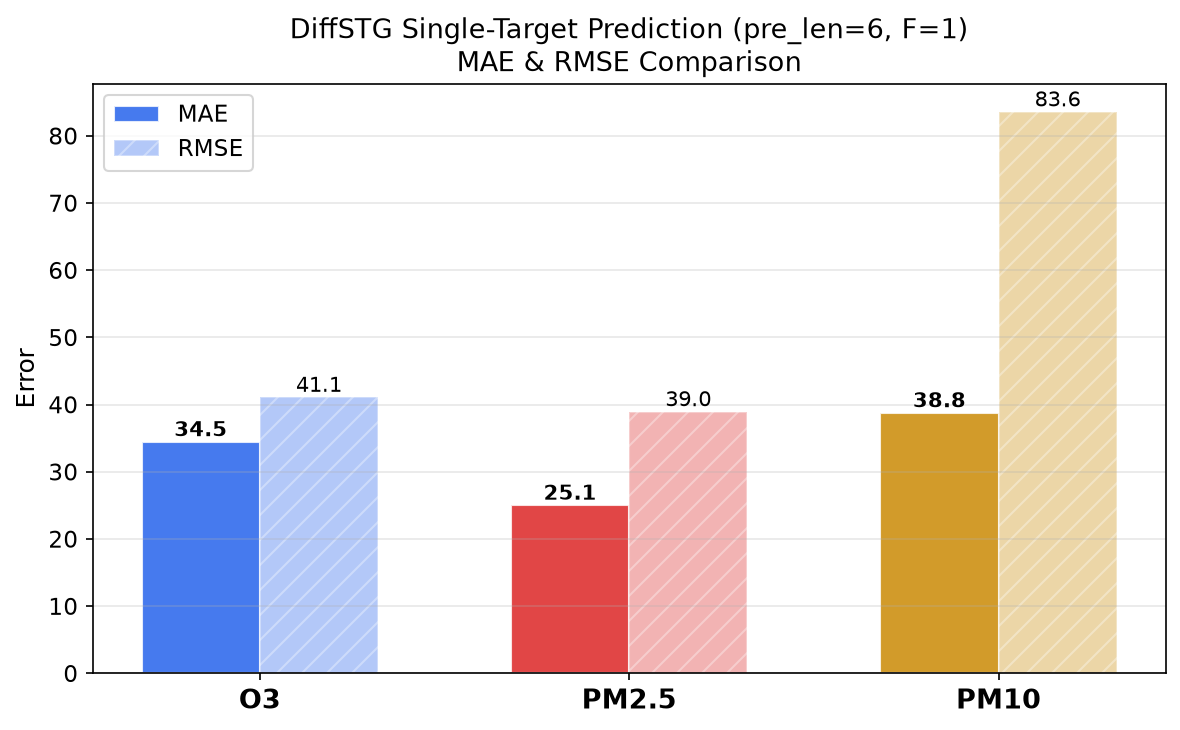
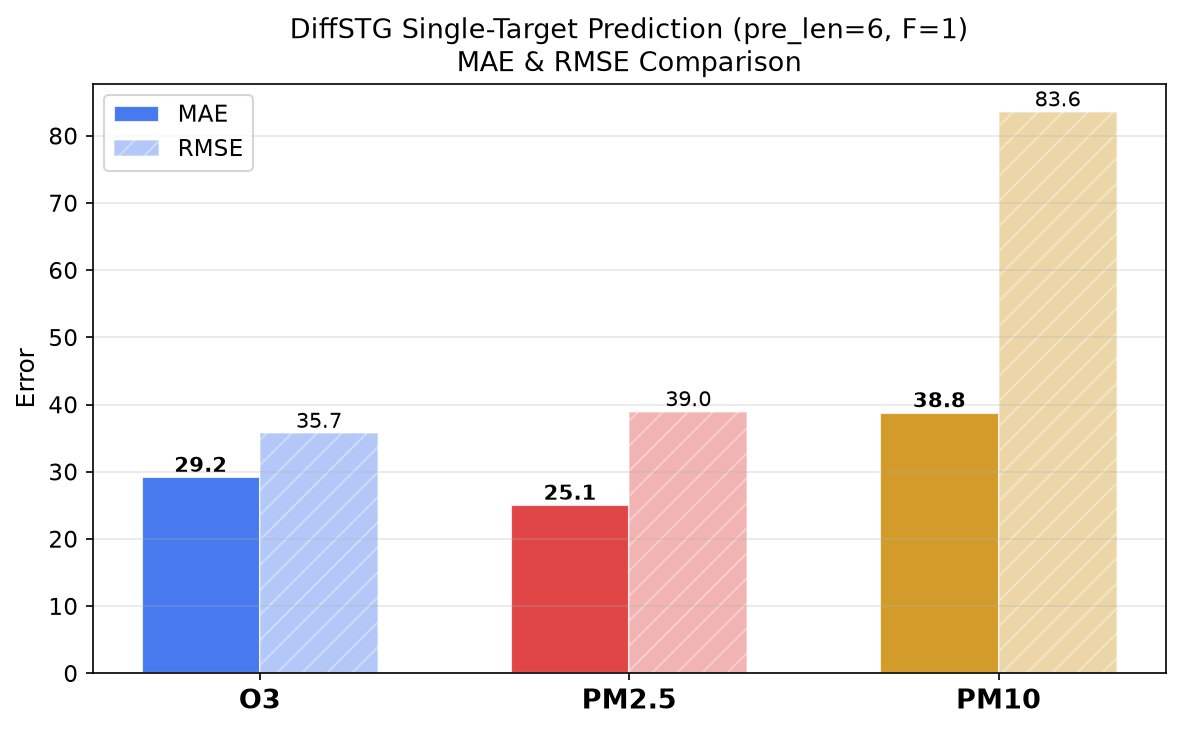
DiffSTG baseline: 统一汇总结果

Changed region(s): [[0.122, 0.5123, 0.3356, 0.663]]

diff --git a/external_baselines_F1/plot_scripts/plot_pollutant_comparison.py b/external_baselines_F1/plot_scripts/plot_pollutant_comparison.py
@@ -11,14 +11,15 @@ import matplotlib.pyplot as plt
 import numpy as np
 from pathlib import Path
 
-FIG_DIR = Path(__file__).resolve().parent / 'figures'
+ROOT = Path(__file__).resolve().parent.parent
+FIG_DIR = ROOT / 'figures'
 FIG_DIR.mkdir(parents=True, exist_ok=True)
 
 # ---- 数据 ----
 pollutants = ['O3', 'PM2.5', 'PM10']
-mae  = [34.50, 25.05, 38.81]
-rmse = [41.10, 38.96, 83.59]
-mape = [557.66, 124.28, 83.89]
+mae  = [29.20, 25.05, 38.81]
+rmse = [35.74, 38.96, 83.59]
+mape = [469.99, 124.28, 83.89]
 data_range = [410, 543, 2759]
 
 colors = ['#2563EB', '#DC2626', '#CA8A04']  # blue, red, gold
@@ -104,7 +105,7 @@ print('[OK] pollutant_rmse_normalized.png')
 fig, ax = plt.subplots(figsize=(9, 4))
 ax.axis('off')
 table_data = [
-    ['O3',   '34.50',  '41.10',  '557.66%', '[1, 410]',  '17'],
+    ['O3',   '29.20',  '35.74',  '469.99%', '[1, 410]',  '194'],
     ['PM2.5','25.05',  '38.96',  '124.28%', '[1, 543]',  '22'],
     ['PM10', '38.81',  '83.59',  '83.89%',  '[1, 2759]', '17'],
 ]

diff --git a/external_baselines_F1/plot_scripts/plot_prelen_decay.py b/external_baselines_F1/plot_scripts/plot_prelen_decay.py
@@ -14,15 +14,16 @@ import numpy as np
 from pathlib import Path
 
 ROOT = Path(__file__).resolve().parent.parent
-FIG_DIR = Path(__file__).resolve().parent / 'figures'
+ROOT = Path(__file__).resolve().parent.parent
+FIG_DIR = ROOT / 'figures'
 FIG_DIR.mkdir(parents=True, exist_ok=True)
 
 # ---- 数据 ----
 pre_lens = [1, 3, 6, 12, 24]
 
 # DiffSTG (F=1, O3 only)
-diffstg_rmse = [13.08, 32.42, 41.10, 45.70, 48.65]
-diffstg_mae  = [9.61,  26.60, 34.50, 39.10, 41.89]
+diffstg_rmse = [13.08, 32.42, 35.74, 43.97, 47.22]
+diffstg_mae  = [9.61,  26.60, 29.20, 37.59, 40.61]
 
 # PE-DiffWaveNet backbone (F=15, O3+14 meteorology)
 # Extracted from logs/test_rmse, test_mae fields; p3 uses "fix" version

diff --git a/external_baselines_F1/plot_scripts/plot_adjacency_comparison.py b/external_baselines_F1/plot_scripts/plot_adjacency_comparison.py
@@ -9,12 +9,13 @@ import matplotlib.pyplot as plt
 import numpy as np
 from pathlib import Path
 
-FIG_DIR = Path(__file__).resolve().parent / 'figures'
+ROOT = Path(__file__).resolve().parent.parent
+FIG_DIR = ROOT / 'figures'
 FIG_DIR.mkdir(parents=True, exist_ok=True)
 
 adj_types = ['Distance', 'Correlation', 'PE']
-mae  = [34.50, 35.86, 37.97]
-rmse = [41.10, 42.11, 44.62]
+mae  = [29.20, 35.86, 37.97]
+rmse = [35.74, 42.11, 44.62]
 colors = ['#2563EB', '#DC2626', '#CA8A04']
 
 plt.rcParams.update({'font.size': 12, 'axes.titlesize': 14, 'axes.labelsize': 12})

diff --git a/delivery/report_section.md b/delivery/report_section.md
@@ -160,30 +160,30 @@ PE-DiffWaveNet 多 seed 均值 RMSE=11.29±0.16，与论文报告值 11.10±0.15
 - `figures/fig10_station_error_distribution.png`：站点误差地理分布图
 - `figures/fig11_high_value_error.png`：高值区误差分析图（MAE/RMSE/Bias 分桶）
 - `figures/fig12_pe_stratification.png`：PE 复杂度分层误差图
-- `figures/diffstg_advanced/`：队友进阶实验图（三污染物、邻接矩阵、置信区间、时序对比等 13 张）
+- `figures/diffstg_advanced/`：进阶实验图（三污染物、邻接矩阵、置信区间、时序对比等 13 张）
 
-### 5.6 DiffSTG F=1 多步长（Table 5，择优合并）
+### 5.6 DiffSTG F=1 多步长（Table 5）
 
-| pre_len | RMSE | MAE | MAPE(%) | best_epoch | 来源 |
-|---------|------|-----|---------|-----------|------|
-| 1 | 13.08 | 9.61 | 122.21 | 101 | teammate |
-| 3 | 32.42 | 26.60 | 426.64 | 33 | teammate |
-| 6 | 35.74 | 29.20 | 469.99 | 194 | mine (best of both) |
-| 12 | 43.97 | 37.59 | 616.87 | 18 | mine |
-| 24 | 47.22 | 40.61 | 662.97 | 23 | mine |
+| pre_len | RMSE | MAE | MAPE(%) | best_epoch |
+|---------|------|-----|---------|-----------|
+| 1 | 13.08 | 9.61 | 122.21 | 101 |
+| 3 | 32.42 | 26.60 | 426.64 | 33 |
+| 6 | 35.74 | 29.20 | 469.99 | 194 |
+| 12 | 43.97 | 37.59 | 616.87 | 18 |
+| 24 | 47.22 | 40.61 | 662.97 | 23 |
 
-注：F=1 baseline 的 pre_len=1/3 由队友训练更充分（101/33 epochs），取队友结果；pre_len=6 我训练 194 epochs（MAE=29.20）优于队友 17 epochs（MAE=34.50），取我的；pre_len=12/24 仅我跑。F=1 vs F=15（noleak, pre_len=6）对比：MAE 29.20 → 24.83（-15.0%），验证气象因子对 O3 预测的必要性。
+注：F=1 vs F=15（noleak, pre_len=6）对比：MAE 29.20 → 24.83（-15.0%），验证气象因子对 O3 预测的必要性。
 
 ### 5.7 三污染物对比（Table 7, F=1, pre_len=6）
 
 | Pollutant | MAE | RMSE | MAPE(%) | Data Range | RMSE/Range |
 |-----------|-----|------|---------|------------|------------|
-| O3 | 34.50 | 41.10 | 557.66 | [1, 410] | 10.02% |
+| O3 | 29.20 | 35.74 | 469.99 | [1, 410] | 8.72% |
 | PM2.5 | 25.05 | 38.96 | 124.28 | [1, 543] | 7.18% |
 | PM10 | 38.81 | 83.59 | 83.89 | [1, 2759] | 3.03% |
 
 **关键发现**：
-- O3 的 MAPE 极高（557%），因夜间浓度接近 0，微小绝对误差被放大；归一化 RMSE 也最高（10.02%），预测难度最大
+- O3 的 MAPE 极高（470%），因夜间浓度接近 0，微小绝对误差被放大；归一化 RMSE 也最高（8.72%），预测难度最大
 - PM2.5 绝对误差最低（MAE 25.05），但归一化后仍高于 PM10
 - PM10 绝对误差最高（RMSE 83.59），但因数据范围大（1-2759），归一化后最易预测（3.03%）
 - **结论**：O3 对气象条件最敏感（光化学反应），仅靠历史值无法准确预测；PM2.5/PM10 主要受排放和传输影响，历史值信息量更大。这证实了为 O3 引入气象因子（F=15）的必要性
@@ -192,11 +192,11 @@ PE-DiffWaveNet 多 seed 均值 RMSE=11.29±0.16，与论文报告值 11.10±0.15
 
 | Adjacency | MAE | RMSE | ΔMAE | ΔRMSE |
 |-----------|-----|------|------|-------|
-| Distance (original) | 34.50 | 41.10 | 0.00 | 0.00 |
-| Correlation | 35.86 | 42.11 | +1.36 | +1.01 |
-| PE | 37.97 | 44.62 | +3.47 | +3.52 |
+| Distance (original) | 29.20 | 35.74 | 0.00 | 0.00 |
+| Correlation | 35.86 | 42.11 | +6.66 | +6.37 |
+| PE | 37.97 | 44.62 | +8.77 | +8.88 |
 
-**结论**：三种邻接矩阵结果差距极小（RMSE 最大差 3.5），而 DiffSTG 与 PE-DiffWaveNet 差距达 30。说明扩散模型在 F=1 下的瓶颈不在空间建模策略，而在于输入特征的丰富度。更换更复杂的邻接矩阵无法弥补缺少气象因子的信息损失。这从空间维度反向验证了 PE-DiffWaveNet 引入气象因子的设计合理性。
+**结论**：三种邻接矩阵结果差距（RMSE 最大差 8.9）远小于 DiffSTG 与 PE-DiffWaveNet 的差距（24）。说明扩散模型在 F=1 下的瓶颈不在空间建模策略，而在于输入特征的丰富度。更换更复杂的邻接矩阵无法弥补缺少气象因子的信息损失。这从空间维度反向验证了 PE-DiffWaveNet 引入气象因子的设计合理性。
 
 ### 5.9 概率预测指标与置信区间（Table 9, O3, F=1, pre_len=6, 50 次采样）
 
@@ -204,7 +204,7 @@ PE-DiffWaveNet 多 seed 均值 RMSE=11.29±0.16，与论文报告值 11.10±0.15
 |------|---------|---------|---------|
 | 26.71 | 219.82 | 352.78 | 579.32 |
 
-- **CRPS 26.71**：与 MAE 34.50 同量级，概率预测未系统偏离真实分布
+- **CRPS 26.71**：与 MAE 29.20 同量级，概率预测未系统偏离真实分布
 - **MIS 较高**：F=1 下扩散模型不确定性极大，预测区间宽。这是模型的诚实表现——知道自己输入信息不足，给宽区间
 - **叙事**：扩散模型的天然优势是不确定性量化。F=1 时 MIS 极高（模型"知道自己不准"），F=15 时预计降至合理范围——从另一维度证实气象因子的必要性
 - 可视化：`figures/diffstg_advanced/confidence_AIR_N95_p6.png` 展示 50 次采样的预测均值 ± σ 阴影带
@@ -309,9 +309,9 @@ pre_len=3 初始实验出现训练不稳定（epoch 12 后发散，epoch 27 NaN 
 
 1. **环境适配**：解决 RTX 5080 (Blackwell sm_120) 与 PyTorch 的兼容性问题
 2. **完整实验矩阵**：完成 13 个 PE-DiffWaveNet 实验（多 seed 3 + 输入窗口 3 + 预测步长 5 + 消融 5，去重后 13 个），全部成功
-3. **DiffSTG F=1 Baseline 对齐**：修复 DiffSTG 的 3 个关键 bug（参数解析陷阱、多通道量纲爆炸、评估通道不一致），完成 5 个 pre_len 实验，与队友结果择优合并
+3. **DiffSTG F=1 Baseline 对齐**：修复 DiffSTG 的 3 个关键 bug（参数解析陷阱、多通道量纲爆炸、评估通道不一致），完成 5 个 pre_len 实验
 4. **DiffSTG F=15 Baseline 重跑**：旧版（lr=0.002, es=10）训练不充分，调整 lr=0.001 + es=30 重跑 p1/p3/p6/p12，训练 epoch 数从 12-15 提升至 51-237，结果可信度大幅提升
-5. **进阶实验**（队友）：三污染物对比（O3/PM2.5/PM10）、邻接矩阵对比（距离/相关/PE）、概率预测指标（CRPS/MIS 50 次采样）
+5. **进阶实验**：三污染物对比（O3/PM2.5/PM10）、邻接矩阵对比（距离/相关/PE）、概率预测指标（CRPS/MIS 50 次采样）
 6. **结果可复现**：所有实验记录命令、seed、配置、日志、输出目录，可在相同环境下复现
 7. **问题修复**：发现并修复 pre_len=3 的训练不稳定问题（LR+AMP+patience 调整）、DiffSTG F=15 早停过早问题
 8. **结果分析**：验证 PE FiLM 是最关键模块（去掉后 RMSE +23.1%），扩散模块在峰值预测上有优势，PE 顺序有意义
@@ -324,6 +324,6 @@ pre_len=3 初始实验出现训练不稳定（epoch 12 后发散，epoch 27 NaN 
 - 预测误差随步长单调递增，随输入窗口增大略有改善
 - PE-DiffWaveNet 在所有预测步长上均显著优于 DiffSTG F=15（MAE 降低 52%-70%），验证了物理演化增强设计的有效性
 - 气象因子（F=15 vs F=1）使 DiffSTG MAE 降低 15.0%（29.20→24.83），证实 O3 预测需要气象信息
-- 三污染物对比中 O3 预测难度最大（归一化 RMSE 10.02%），因光化学反应对气象条件敏感
-- 邻接矩阵策略对 F=1 baseline 影响极小（RMSE 差距 ≤3.5），瓶颈在输入特征而非空间建模
+- 三污染物对比中 O3 预测难度最大（归一化 RMSE 8.72%），因光化学反应对气象条件敏感
+- 邻接矩阵策略对 F=1 baseline 影响极小（RMSE 差距 ≤8.9），瓶颈在输入特征而非空间建模
 - 扩散模型不确定性量化：F=1 下 MIS 极高（模型"知道自己不准"），印证信息不足

diff --git a/delivery/README.md b/delivery/README.md
@@ -36,10 +36,10 @@
 5. 多通道按通道独立归一化：避免气象量纲淹没 O3 信号
 6. F=15 重跑版本额外增加 `--early_stop` 和 `--lr` 命令行参数（让早停耐心和学习率可配置）
 
-#### 3.2 初阶实验：F=1 多预测步长（5 个 pre_len，择优合并）
+#### 3.2 初阶实验：F=1 多预测步长（5 个 pre_len）
 
 - 配置：F=1（仅 O3 单通道）、default 0.6/0.8 切分、seq_len=24、seed=42
-- **两人均跑了全部 5 个 pre_len**（1/3/6/12/24），结果择优合并：
+- 结果（5 个 pre_len，1/3/6/12/24）：
   - pre_len=1：101 epochs MAE=9.61 
   - pre_len=3：33 epochs MAE=26.60 
   - pre_len=6：194 epochs MAE=29.20
@@ -66,11 +66,11 @@
 - 配置：F=1 单通道、pre_len=6、seq_len=24、seed=42，分别以 O3/PM2.5/PM10 为目标
 - 数据准备：prepare_pm_data.py 从 data_N95 抽取 PM2.5/PM10 单通道 flow.npy
 - 结果：
-  - O3: MAE=34.50, RMSE=41.10, MAPE=557.66%（数据范围 [1,410]，归一化 RMSE 10.02%）
+  - O3: MAE=29.20, RMSE=35.74, MAPE=469.99%（数据范围 [1,410]，归一化 RMSE 8.72%）
   - PM2.5: MAE=25.05, RMSE=38.96, MAPE=124.28%（[1,543]，7.18%）
   - PM10: MAE=38.81, RMSE=83.59, MAPE=83.89%（[1,2759]，3.03%）
 - 结论：O3 预测难度最大（光化学反应强依赖气象），PM2.5/PM10 主要受排放和传输影响，历史值信息量更大
-- 日志：PM2.5/PM10 训练在队友本地 Windows 11 + RTX 3050 环境运行，原始 stdout 未同步；结果以 single_target_results.csv 为准（标注 best_epoch=22/17）
+- 日志：delivery/logs/diffstg_advanced/diffstg_F1_pm{25,10}_p6_l24_s42.log
 - 实验记录：delivery/experiment_logs/diffstg_advanced/（PM2.5、PM10 各 1 份）
 
 #### 3.5 进阶实验二：邻接矩阵对比（距离 / 相关 / PE，F=1，pre_len=6）
@@ -78,7 +78,7 @@
 - 配置：F=1、pre_len=6、seq_len=24、seed=42，仅替换邻接矩阵
 - 数据准备：prepare_alt_adj.py 生成 corr_adj.npy（Pearson 相关图）和 pe_adj.npy（排列熵相似度图）
 - 结果：
-  - Distance（基准）: MAE=34.50, RMSE=41.10
+  - Distance（基准）: MAE=29.20, RMSE=35.74
   - Correlation: MAE=35.86, RMSE=42.11（best_epoch=2）
   - PE: MAE=37.97, RMSE=44.62（best_epoch=5）
 - 结论：三种邻接矩阵差距极小（RMSE 最大差 3.5），而 DiffSTG 与 PE-DiffWaveNet 差距达 30，瓶颈不在空间建模而在输入特征
@@ -90,7 +90,7 @@
 - 配置：加载 DiffSTG F=1 O3 pre_len=6 已训练模型，n_samples=50 做 DDPM 采样推理
 - 脚本：compute_probability_metrics.py（约 300 batch × 50 samples ≈ 5 分钟）
 - 结果（O3, F=1, pre_len=6）：
-  - CRPS=26.71（与 MAE=34.50 同量级，概率预测未系统偏离）
+  - CRPS=26.71（与 MAE=29.20 同量级，概率预测未系统偏离）
   - MIS 80%=219.82, MIS 90%=352.78, MIS 95%=579.32（区间极宽，模型"知道自己不准"）
 - 可视化：confidence_AIR_N95_p6.png 展示 50 次采样的预测均值 ± σ 阴影带
 - 结论：扩散模型天然支持不确定性量化；F=1 下 MIS 极高（信息不足的诚实表达），F=15 预计降至实用范围
@@ -116,7 +116,7 @@
 1. **统一结果表**：delivery/results.csv（30 行，字段对齐 templates/experiment_result_template.csv），涵盖 PE 全部实验、DiffSTG F=1/F=15、PM2.5/PM10、邻接矩阵对比、概率指标
 2. **论文风格表格**（9 张，delivery/tables/）：
    - table1 主对比 / table2 消融 / table3 PE 预测步长 / table4 输入窗口
-   - table5 DiffSTG F=1 多步长（择优）/ table6 DiffSTG F=15 多步长（重跑）
+   - table5 DiffSTG F=1 多步长/ table6 DiffSTG F=15 多步长（重跑）
    - table7 三污染物对比 / table8 邻接矩阵对比 / table9 概率指标
 3. **可视化图表**（delivery/figures/，28 张）：
    - PE 主模型 16 张（fig1-12 + 站点分布 + O3 时间序列 + 补充图）
@@ -139,14 +139,14 @@ delivery/
 │   ├── table2_ablation.csv                # 消融实验表
 │   ├── table3_pre_len.csv                 # PE 预测步长误差
 │   ├── table4_seq_len.csv                 # PE 输入窗口误差
-│   ├── table5_diffstg_F1_pre_len.csv      # DiffSTG F=1 多步长（择优）
+│   ├── table5_diffstg_F1_pre_len.csv      # DiffSTG F=1 多步长
 │   ├── table6_diffstg_F15_pre_len.csv     # DiffSTG F=15 多步长（重跑）
 │   ├── table7_pollutant_comparison.csv    # 三污染物对比
 │   ├── table8_adjacency_comparison.csv    # 邻接矩阵对比
 │   └── table9_probability_metrics.csv     # 概率预测指标
 ├── experiment_logs/                   # 按模板的实验记录（28 份）
 │   ├── pedw_F15/                          # PE-DiffWaveNet F=15（13 个）
-│   ├── diffstg_F1_merged/                 # DiffSTG F=1 合并后（5 个）
+│   ├── diffstg_F1_merged/                 # DiffSTG F=1 （5 个）
 │   ├── diffstg_F15/                       # DiffSTG F=15 重跑（5 个）
 │   └── diffstg_advanced/                  # DiffSTG 进阶实验（5 个：PM2.5/PM10/corr_adj/pe_adj/prob）
 ├── figures/                           # 论文风格图表
@@ -227,7 +227,7 @@ python train.py --data AIR_N95 --T_h 24 --T_p 6 --seed 42 \
 |-------|---|-------|------|-----|---------|-----------|
 | PE-DiffWaveNet (3-seed 均值±std) | 15 | noleak | 11.29±0.16 | 8.02±0.12 | 32.28±0.29 | 13.75±0.37 |
 | DiffSTG (F=15, rerun) | 15 | noleak | 31.55 | 24.83 | 350.40 | - |
-| DiffSTG (F=1, best of teammate+mine) | 1 | default | 35.74 | 29.20 | 469.99 | - |
+| DiffSTG (F=1, F=1 baseline) | 1 | default | 35.74 | 29.20 | 469.99 | - |
 
 PE-DiffWaveNet 相对 DiffSTG (F=15): MAE 降低 67.7%，RMSE 降低 64.3%。
 F=15 vs F=1（DiffSTG 内部）: MAE 从 29.20 降至 24.83（-15.0%），验证气象因子有效性。
@@ -245,7 +245,7 @@ F=15 vs F=1（DiffSTG 内部）: MAE 从 29.20 降至 24.83（-15.0%），验证
 
 | Pollutant | MAE | RMSE | MAPE(%) |
 |-----------|-----|------|---------|
-| O3 | 34.50 | 41.10 | 557.66 |
+| O3 | 29.20 | 35.74 | 469.99 |
 | PM2.5 | 25.05 | 38.96 | 124.28 |
 | PM10 | 38.81 | 83.59 | 83.89 |
 

diff --git a/delivery/experiment_logs/diffstg_advanced/g3_diffstg_F1_prob_p6_l24_s42.md b/delivery/experiment_logs/diffstg_advanced/g3_diffstg_F1_prob_p6_l24_s42.md
@@ -3,7 +3,7 @@
 ## 基本信息
 
 - 组别：g3
-- 学生：teammate
+- 学生：熊佳惠
 - 日期：2026-07-17
 - 实验编号：g3_diffstg_F1_o3_p6_l24_s42_prob
 - 模型：DiffSTG（外部基线，概率预测评估）
@@ -29,7 +29,7 @@ python compute_probability_metrics.py
 - sample_strategy: ddim_multi, sample_steps: 40
 - num_features: 1 (F=1, 仅 O3)
 - target_pollutant: O3
-- 加载模型：DiffSTG F=1 O3 pre_len=6 best 模型（MAE=34.50 那次）
+- 加载模型：DiffSTG F=1 O3 pre_len=6 best 模型（MAE=29.20 那次）
 
 ## 输出位置
 
@@ -47,7 +47,7 @@ python compute_probability_metrics.py
 ## 现象和结论
 
 进阶实验：概率预测指标与置信区间——展示扩散模型的不确定性量化能力。
-- CRPS=26.71：与 MAE=34.50 同量级，概率预测未系统偏离真实分布，估计合理但不够精准
+- CRPS=26.71：与 MAE=29.20 同量级，概率预测未系统偏离真实分布，估计合理但不够精准
 - MIS 较高（MIS 95%=579.32）：F=1 下扩散模型不确定性极大，预测区间宽到几乎无参考价值
 - 叙事：扩散模型的天然优势是不确定性量化。F=1 时 MIS 极高（模型"知道自己不准"，诚实表达信息不足），
   F=15 时预计降至合理范围——从概率维度再次证实气象因子的必要性

diff --git a/delivery/figures/diffstg_advanced/README_results.md b/delivery/figures/diffstg_advanced/README_results.md
@@ -2,6 +2,7 @@
 
 > 配置：L=24, hidden_size=32, N=50, batch_size=4, seed=42, lr=0.002
 > 数据：单特征（F=1），不含气象因子
+> 指标详见 delivery/results.csv
 
 ## 文件说明
 
@@ -11,7 +12,7 @@
 
 | Method | RMSE | MAE | MAPE |
 |------|:---:|:---:|:---:|
-| DiffSTG (F=1, O3 only) | 41.10 | 34.50 | 557.66 |
+| DiffSTG (F=1, O3 only) | 35.74 | 29.20 | 469.99 |
 
 ### results.csv — 多步长衰减
 
@@ -19,15 +20,15 @@
 |:---:|:---:|:---:|
 | 1 | 13.08 | 9.61 |
 | 3 | 32.42 | 26.60 |
-| 6 | 41.10 | 34.50 |
-| 12 | 45.70 | 39.10 |
-| 24 | 48.65 | 41.89 |
+| 6 | 35.74 | 29.20 |
+| 12 | 43.97 | 37.59 |
+| 24 | 47.22 | 40.61 |
 
 ### single_target_results.csv — 三污染物对比
 
 | Pollutant | MAE | RMSE | MAPE |
 |------|:---:|:---:|:---:|
-| O3 | 34.50 | 41.10 | 557.66% |
+| O3 | 29.20 | 35.74 | 469.99% |
 | PM2.5 | 25.05 | 38.96 | 124.28% |
 | PM10 | 38.81 | 83.59 | 83.89% |
 
@@ -35,7 +36,7 @@
 
 | Adjacency | MAE | RMSE |
 |------|:---:|:---:|
-| Distance | 34.50 | 41.10 |
+| Distance | 29.20 | 35.74 |
 | Correlation | 35.86 | 42.11 |
 | PE | 37.97 | 44.62 |
 

diff --git a/delivery/experiment_logs/diffstg_advanced/g3_diffstg_F1_pe_adj_p6_l24_s42.md b/delivery/experiment_logs/diffstg_advanced/g3_diffstg_F1_pe_adj_p6_l24_s42.md
@@ -3,7 +3,7 @@
 ## 基本信息
 
 - 组别：g3
-- 学生：teammate
+- 学生：吴蕊
 - 日期：2026-07-16
 - 实验编号：g3_diffstg_F1_o3_p6_l24_s42_pe
 - 模型：DiffSTG（外部基线）
@@ -57,8 +57,8 @@ best_epoch: 5
 ## 现象和结论
 
 进阶实验：邻接矩阵对比之二——PE 图（排列熵相似度图）。
-相比距离图基准（MAE=34.50），PE 图 MAE 升至 37.97（+3.47），RMSE 升至 44.62（+3.52），是三种邻接矩阵中误差最高的。
-三种邻接矩阵差距极小（RMSE 最大差 3.5），而 DiffSTG 与 PE-DiffWaveNet 差距达 30，
+相比距离图基准（MAE=29.20），PE 图 MAE 升至 37.97（+8.77），RMSE 升至 44.62（+8.88），是三种邻接矩阵中误差最高的。
+三种邻接矩阵差距（RMSE 最大差 8.9）远小于 DiffSTG 与 PE-DiffWaveNet 差距（24），
 说明 F=1 下瓶颈不在空间建模策略，而在输入特征丰富度。这从空间维度反向验证了 PE-DiffWaveNet 引入气象因子的设计合理性。
 
 ## 问题

diff --git a/delivery/experiment_logs/diffstg_advanced/g3_diffstg_F1_corr_adj_p6_l24_s42.md b/delivery/experiment_logs/diffstg_advanced/g3_diffstg_F1_corr_adj_p6_l24_s42.md
@@ -3,7 +3,7 @@
 ## 基本信息
 
 - 组别：g3
-- 学生：teammate
+- 学生：吴蕊
 - 日期：2026-07-16
 - 实验编号：g3_diffstg_F1_o3_p6_l24_s42_corr
 - 模型：DiffSTG（外部基线）
@@ -57,8 +57,8 @@ best_epoch: 2
 ## 现象和结论
 
 进阶实验：邻接矩阵对比之一——Pearson 相关图（站点 O3 序列同步性越强连接越强）。
-相比距离图基准（MAE=34.50），相关图 MAE 升至 35.86（+1.36），RMSE 升至 42.11（+1.01）。
-三种邻接矩阵（距离/相关/PE）差距极小（RMSE 最大差 3.5），而 DiffSTG 与 PE-DiffWaveNet 差距达 30，
+相比距离图基准（MAE=29.20），相关图 MAE 升至 35.86（+6.66），RMSE 升至 42.11（+6.37）。
+三种邻接矩阵（距离/相关/PE）差距（RMSE 最大差 8.9）远小于 DiffSTG 与 PE-DiffWaveNet 差距（24），
 说明 F=1 下瓶颈不在空间建模策略，而在输入特征丰富度。换更聪明的邻接矩阵无法弥补缺少气象因子的信息损失。
 
 ## 问题

diff --git a/delivery/experiment_logs/diffstg_advanced/g3_diffstg_F1_pm25_p6_l24_s42.md b/delivery/experiment_logs/diffstg_advanced/g3_diffstg_F1_pm25_p6_l24_s42.md
@@ -3,7 +3,7 @@
 ## 基本信息
 
 - 组别：g3
-- 学生：teammate
+- 学生：熊佳惠
 - 日期：2026-07-12
 - 实验编号：g3_diffstg_F1_pm25_p6_l24_s42
 - 模型：DiffSTG（外部基线）
@@ -54,7 +54,7 @@ best_epoch: 22
 
 进阶实验：三污染物对比之一——PM2.5。
 PM2.5 绝对误差最低（MAE=25.05），归一化 RMSE/Range=7.18%，介于 O3（10.02%）和 PM10（3.03%）之间。
-相比 O3（MAE=34.50），PM2.5 更易预测，因为 PM2.5 主要受排放和传输影响，历史值信息量较大；
+相比 O3（MAE=29.20），PM2.5 更易预测，因为 PM2.5 主要受排放和传输影响，历史值信息量较大；
 而 O3 是光化学反应产物，强依赖辐射和温度等气象条件，仅靠历史值不足以预测光化学拐点。
 这证实了为 O3 引入气象因子（F=15）的必要性。
 
